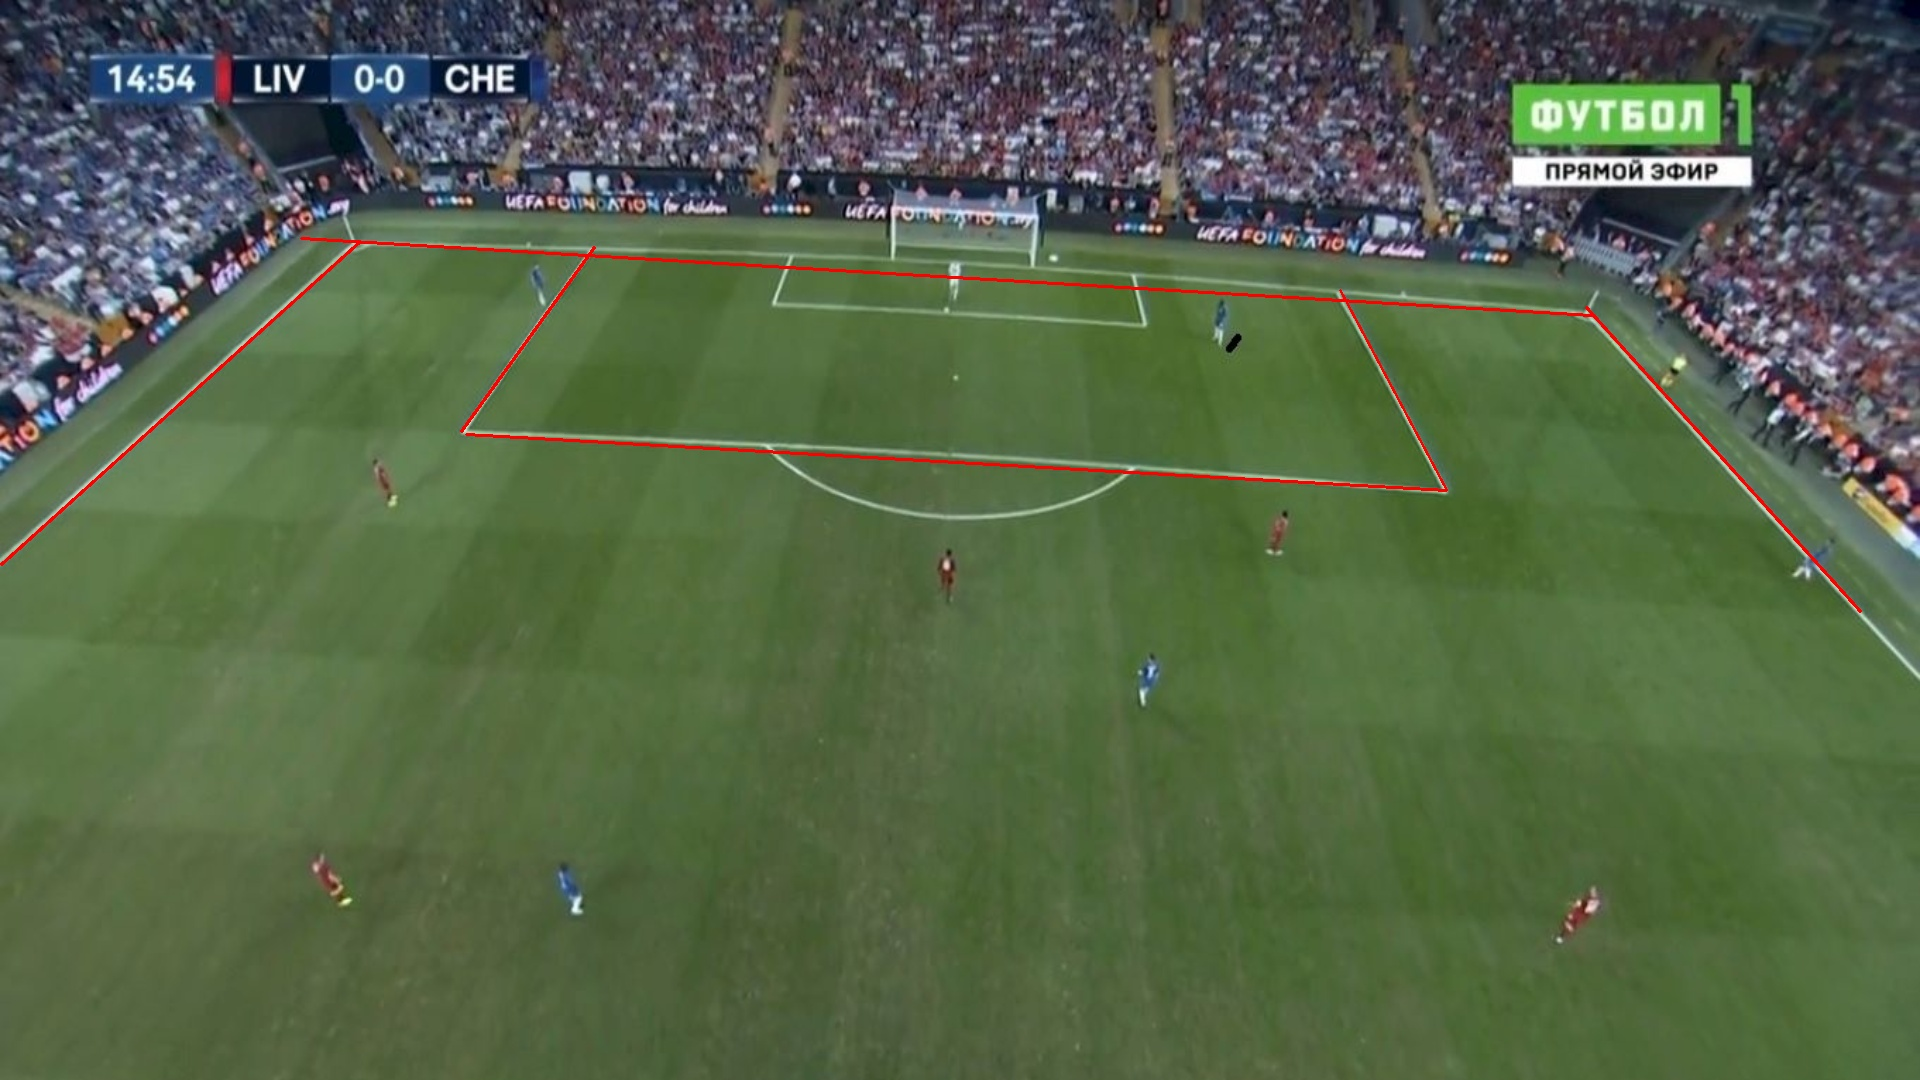
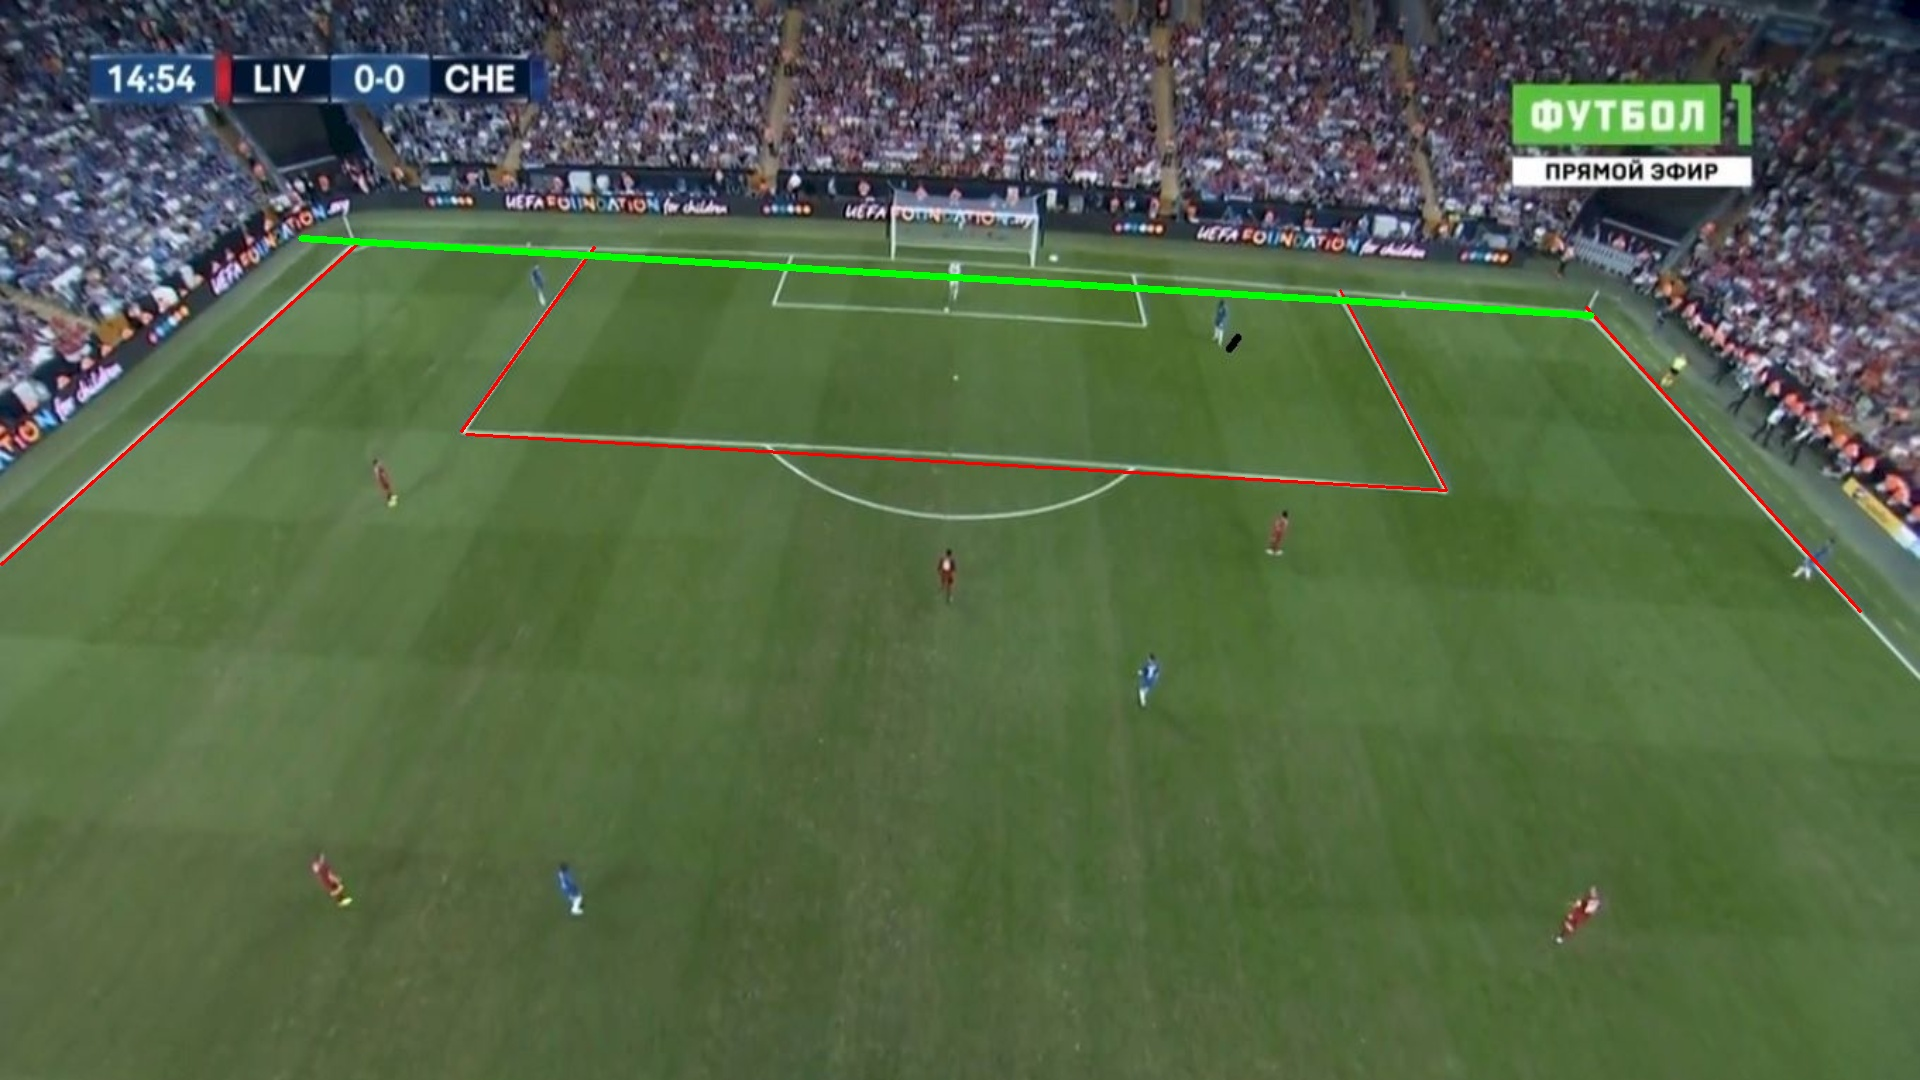
Fix

Changed region(s): [[0.1562, 0.2139, 0.8438, 0.3056]]

diff --git a/mainUI.py b/mainUI.py
@@ -1,5 +1,8 @@
 from PyQt5.QtWidgets import QApplication, QMainWindow, QCalendarWidget, \
     QGraphicsDropShadowEffect, QWidget
+
+from PyQt5.QtWidgets import QApplication, QWidget, QMainWindow, QFileDialog, QListWidgetItem
+from PyQt5.QtGui import QPixmap, QImage, QBrush, QColor, QIcon
 from PyQt5 import QtCore
 import threading
 from functools import wraps
@@ -8,9 +11,93 @@ import datetime
 # import copy
 import time
 import sys
-# import os
+import cv2
+import numpy as np
+import os
+from filter import ImageHolder
 
 from ui.main_ui import Ui_MainWindow
+
+
+class ImageViewer:
+    def __init__(self, window):
+        self.window = window
+        self.ui = window.ui
+        self.image = None
+        pass
+
+    def window_holder(self):
+        self.WIN_WIDTH = self.window.width()
+        self.WIN_HEIGHT = self.window.height()
+        x_left, y_up = 0, 0
+        x_right = 183
+        y_down = 0
+        self.x_shift = self.WIN_WIDTH - x_right
+        self.y_shift = self.WIN_HEIGHT - y_down
+        # print(self.WIN_WIDTH, self.WIN_HEIGHT)
+
+        # self.FRAME_SIZE = (x_left, y_up, self.x_shift, self.y_shift)
+        self.FULL_FRAME_SIZE = (x_left + 2, y_up, self.WIN_WIDTH - x_right, self.WIN_HEIGHT - y_down)
+        # print(self.FRAME_SIZE)
+        # self.ui.image.setGeometry(QtCore.QRect(*self.FRAME_SIZE))
+        self.image_update()
+
+    def image_update(self):
+        def image_processing():
+            image = self.image.copy()
+            self.ORIGIN_IMSIZE = image.shape[:2]
+            self.K = min(self.y_shift / image.shape[0], self.x_shift / image.shape[1])
+            # print(self.K)
+            self.NEW_IMSIZE = (round(np.array(image).shape[0] * self.K), round(np.array(image).shape[1] * self.K))
+
+            image = cv2.resize(image, (self.NEW_IMSIZE[1], self.NEW_IMSIZE[0]))
+            # height, width, channel = image.shape
+            bytesPerLine = 3 * image.shape[1]
+            qImg = QImage(image.data, image.shape[1], image.shape[0], bytesPerLine, QImage.Format_BGR888)
+            return qImg
+
+        if self.image is None: return
+        self.ui.label_image.setPixmap(QPixmap(image_processing()))
+
+
+class OpenFileHolder:
+    def __init__(self, window: QMainWindow):
+        self.ui = window.ui
+        self.window = window
+        self.path = None
+        self.type = None
+        self.image_types = ['jpg',
+                            'jpeg',
+                            'png',
+                            'bmp']
+        self.image = None
+        self.ui.pushButton_save.clicked.connect(self.save_image)
+        self.ui.pushButton_open.clicked.connect(self.open_file)
+
+    def open_file(self, param, fname=None):
+
+        if fname is None:
+            fname = QFileDialog.getOpenFileName(self.window, 'Открыть файл',
+                                                f'{os.path.dirname(__file__)}/',
+                                                "Изображение (*.jpg *.jpeg *.png *.bmp)")[0]
+        if fname:
+            self.path = fname
+            self.type = fname.split('.')[-1]
+            if self.type in self.image_types:
+                self.window.ImH.load_img(self.path)
+                self.image = self.window.ImH.src_img
+                self.window.window_holder.image = self.image
+                self.window.window_holder.image_update()
+                return self.path, self.image
+
+    def save_image(self):
+        if self.window.ImH.dst_img is not None:
+            fname = QFileDialog.getSaveFileName(self.window, 'Save File', f'{os.path.dirname(__file__)}/',)[0]
+            if fname:
+                if len(fname.split('.')) == 1:
+                    fname += '.png'
+                cv2.imwrite(fname, self.window.ImH.dst_img)
+                return 0
 
 
 class MainWindow(QMainWindow):
@@ -23,9 +110,49 @@ class MainWindow(QMainWindow):
         central_widget.setLayout(self.ui.mainLayout)  # main layout
         self.setCentralWidget(central_widget)
 
-        self.setLayout(self.ui.mainLayout)
-        self.main_modules = None
-        self.list_threads = []
+        self.modules = []
+        self.window_holder = ImageViewer(self)
+        self.open_file_holder = OpenFileHolder(self)
+        self.ImH = ImageHolder()
+
+        # self._reset_()
+        self.ui.pushButton_analyze.clicked.connect(self.aplly_filters)
+        self.ui.pushButton_analyze_folder.clicked.connect(self.analyze_folder)
+
+    def _reset_(self):
+        self.window_holder = ImageViewer(self)
+        self.open_file_holder = OpenFileHolder(self)
+
+    def aplly_filters(self):
+        if self.ImH.src_img is None:
+            return
+        d, img = self.ImH.apply_filters()
+        print(d)
+        self.ui.textEdit_lines.clear()
+        self._set_add_info_(d)
+        self.window_holder.image = img
+        self.window_holder.image_update()
+
+    def _set_add_info_(self, d):
+        self.ui.textEdit_lines.setText(
+            "№: x1, y1, x2, y2\n" + "".join(f"{i}: {line[2]}\n" for i, line in enumerate(d)))
+
+    def analyze_folder(self):
+        IMAGE_DIR = str(QFileDialog.getExistingDirectory(self, "Выбор дериктории"))
+        if IMAGE_DIR:
+            self.ui.textEdit_lines.setText("Ждите")
+            self.repaint()
+            for i, filename in enumerate(os.listdir(IMAGE_DIR)):
+                d, img = self.ImH.apply_filters(IMAGE_DIR + '/' + filename)
+                # self.window_holder.image = self.ImH.dst_img
+                # self.window_holder.image_update()
+                # self._set_add_info_(d)
+                # self.repaint()
+        self.ui.textEdit_lines.setText("Готово")
+
+    def resizeEvent(self, *args, **kwargs):
+        if self.window_holder:
+            self.window_holder.window_holder()
 
 
 if __name__ == '__main__':

diff --git a/ui/main_ui.py b/ui/main_ui.py
@@ -164,6 +164,8 @@ class Ui_MainWindow(object):
         self.mainLayout.setContentsMargins(0, 0, 0, 0)
         self.mainLayout.setObjectName("mainLayout")
         self.label_image = QtWidgets.QLabel(self.widget)
+        self.label_image.setText("")
+        self.label_image.setAlignment(QtCore.Qt.AlignCenter)
         self.label_image.setObjectName("label_image")
         self.mainLayout.addWidget(self.label_image)
         self.verticalLayout = QtWidgets.QVBoxLayout()
@@ -195,10 +197,10 @@ class Ui_MainWindow(object):
 "}")
         self.pushButton_open.setObjectName("pushButton_open")
         self.verticalLayout.addWidget(self.pushButton_open)
-        self.pushButton_open_2 = QtWidgets.QPushButton(self.widget)
-        self.pushButton_open_2.setMinimumSize(QtCore.QSize(181, 41))
-        self.pushButton_open_2.setMaximumSize(QtCore.QSize(181, 41))
-        self.pushButton_open_2.setStyleSheet("QWidget {\n"
+        self.pushButton_analyze = QtWidgets.QPushButton(self.widget)
+        self.pushButton_analyze.setMinimumSize(QtCore.QSize(181, 41))
+        self.pushButton_analyze.setMaximumSize(QtCore.QSize(181, 41))
+        self.pushButton_analyze.setStyleSheet("QWidget {\n"
 "font-size: 15px;\n"
 "}\n"
 "\n"
@@ -218,12 +220,12 @@ class Ui_MainWindow(object):
 "background-color: #323232;\n"
 "border: 4px solid #808080;\n"
 "}")
-        self.pushButton_open_2.setObjectName("pushButton_open_2")
-        self.verticalLayout.addWidget(self.pushButton_open_2)
-        self.pushButton_2 = QtWidgets.QPushButton(self.widget)
-        self.pushButton_2.setMinimumSize(QtCore.QSize(181, 31))
-        self.pushButton_2.setMaximumSize(QtCore.QSize(181, 31))
-        self.pushButton_2.setStyleSheet("QWidget {\n"
+        self.pushButton_analyze.setObjectName("pushButton_analyze")
+        self.verticalLayout.addWidget(self.pushButton_analyze)
+        self.pushButton_save = QtWidgets.QPushButton(self.widget)
+        self.pushButton_save.setMinimumSize(QtCore.QSize(181, 31))
+        self.pushButton_save.setMaximumSize(QtCore.QSize(181, 31))
+        self.pushButton_save.setStyleSheet("QWidget {\n"
 "font-size: 15px;\n"
 "}\n"
 "\n"
@@ -243,13 +245,38 @@ class Ui_MainWindow(object):
 "background-color: #323232;\n"
 "border: 4px solid #808080;\n"
 "}")
-        self.pushButton_2.setObjectName("pushButton_2")
-        self.verticalLayout.addWidget(self.pushButton_2)
-        self.textEdit = QtWidgets.QTextEdit(self.widget)
-        self.textEdit.setMinimumSize(QtCore.QSize(181, 521))
-        self.textEdit.setMaximumSize(QtCore.QSize(181, 16777215))
-        self.textEdit.setObjectName("textEdit")
-        self.verticalLayout.addWidget(self.textEdit)
+        self.pushButton_save.setObjectName("pushButton_save")
+        self.verticalLayout.addWidget(self.pushButton_save)
+        self.pushButton_analyze_folder = QtWidgets.QPushButton(self.widget)
+        self.pushButton_analyze_folder.setMinimumSize(QtCore.QSize(181, 31))
+        self.pushButton_analyze_folder.setMaximumSize(QtCore.QSize(181, 31))
+        self.pushButton_analyze_folder.setStyleSheet("QWidget {\n"
+"font-size: 15px;\n"
+"}\n"
+"\n"
+"QPushButton {\n"
+"background-color: #454545;\n"
+"color: #fffff8;\n"
+"border: 2px solid #808080;\n"
+"border-radius: 10px;\n"
+"/*border-bottom-left-radius: 15px;*/\n"
+"}\n"
+"\n"
+"QPushButton:hover {\n"
+"background-color: #323232;\n"
+"}\n"
+"\n"
+"QPushButton:pressed {\n"
+"background-color: #323232;\n"
+"border: 4px solid #808080;\n"
+"}")
+        self.pushButton_analyze_folder.setObjectName("pushButton_analyze_folder")
+        self.verticalLayout.addWidget(self.pushButton_analyze_folder)
+        self.textEdit_lines = QtWidgets.QTextEdit(self.widget)
+        self.textEdit_lines.setMinimumSize(QtCore.QSize(181, 480))
+        self.textEdit_lines.setMaximumSize(QtCore.QSize(181, 16777215))
+        self.textEdit_lines.setObjectName("textEdit_lines")
+        self.verticalLayout.addWidget(self.textEdit_lines)
         spacerItem1 = QtWidgets.QSpacerItem(20, 2, QtWidgets.QSizePolicy.Minimum, QtWidgets.QSizePolicy.Fixed)
         self.verticalLayout.addItem(spacerItem1)
         self.mainLayout.addLayout(self.verticalLayout)
@@ -265,7 +292,7 @@ class Ui_MainWindow(object):
     def retranslateUi(self, MainWindow):
         _translate = QtCore.QCoreApplication.translate
         MainWindow.setWindowTitle(_translate("MainWindow", "MainWindow"))
-        self.label_image.setText(_translate("MainWindow", "TextLabel"))
         self.pushButton_open.setText(_translate("MainWindow", "Открыть"))
-        self.pushButton_open_2.setText(_translate("MainWindow", "Анализ"))
-        self.pushButton_2.setText(_translate("MainWindow", "Сохранить"))
+        self.pushButton_analyze.setText(_translate("MainWindow", "Анализ"))
+        self.pushButton_save.setText(_translate("MainWindow", "Сохранить"))
+        self.pushButton_analyze_folder.setText(_translate("MainWindow", "Анализ папки"))

diff --git a/filter.py b/filter.py
@@ -21,7 +21,7 @@ class ImageHolder:
         self.src_img = cv.imread(filename)
         self.src_img = cv.resize(self.src_img, (1920, 1080))
         self.filename = filename
-        self.dst_img = None
+        self.dst_img = self.src_img.copy()
 
     def _filterMark_(self, img):
         # img = cv.resize(img, (1920, 1080))
@@ -147,13 +147,54 @@ class ImageHolder:
 
         self.dst_img = self.src_img.copy()
         # self.dst_img = np.zeros((img.shape[0], img.shape[1])).astype(np.uint8)
+
         for a, b, [x1, y1, x2, y2] in total_points:
             cv.line(self.dst_img, (x1, y1), (x2, y2), (0, 0, 255), 2)
+
+        # import copy
+        # total_points_tmp = copy.deepcopy(total_points)
+        eps = 30
+        x_lines_idx = []
+        for i, (a, b, [x1, y1, x2, y2]) in enumerate(total_points):
+            a = np.tan(a / 180)
+            x_lines_idx += [0]
+            for ii, (a_, b_, [x1_, y1_, x2_, y2_]) in enumerate(total_points):
+                a_ = np.tan(a_ / 180)
+                if abs(int(a * x1_ + b) - y1_) < eps or abs(int(a * x2_ + b) - y2_) < eps:
+                    x_lines_idx[-1] += 1
+            x_lines_idx[-1] -= 1
+        # print(x_lines_idx)
+        # a, b, [x1, y1, x2, y2] = total_points[1]
+        # cv.line(self.dst_img, (x1, y1), (x2, y2), (0, 255, 255), 5)
+        len_idx = [np.sqrt((x1 - x2) ** 2 + (y1 - y2) ** 2) for a, b, [x1, y1, x2, y2] in total_points]
+        for i in range(len(total_points)):
+            total_points[i] += [len_idx[i], x_lines_idx[i]]
+        # print(total_points)
+
+        total_points_sorted = sorted(total_points, key=lambda l: l[3], reverse=True)
+        total_points_sorted_crop = total_points_sorted[:int(len(total_points_sorted))]
+
+        index_max_x_lines = 0
+        max_lines = 0
+        for i, (a, b, [x1, y1, x2, y2], len_, x_lines) in enumerate(total_points_sorted_crop):
+            if x_lines > max_lines:
+                max_lines = x_lines
+                index_max_x_lines = i
+        a, b, [x1, y1, x2, y2], len_, x_lines = total_points_sorted_crop[index_max_x_lines]
+        cv.line(self.dst_img, (x1, y1), (x2, y2), (0, 255, 0), 5)
+        # x1, y1, x2, y2 = total_points[len_idx.index(max(len_idx))][-1]
+        # cv.line(self.dst_img, (x1, y1), (x2, y2), (0, 255, 0), 4)
+
         self.save_image()
-        return total_points, self.dst_img
+        return total_points_sorted, self.dst_img
 
     def save_image(self):
         if not os.path.exists("res_images"):
             os.mkdir("res_images")
         # print("res_images" + self.filename.split('/')[-1])
         cv.imwrite("res_images/" + self.filename.split('/')[-1], self.dst_img)
+
+
+if __name__ == "__main__":
+    ImH = ImageHolder()
+    ImH.apply_filters("images/1.jpg")
